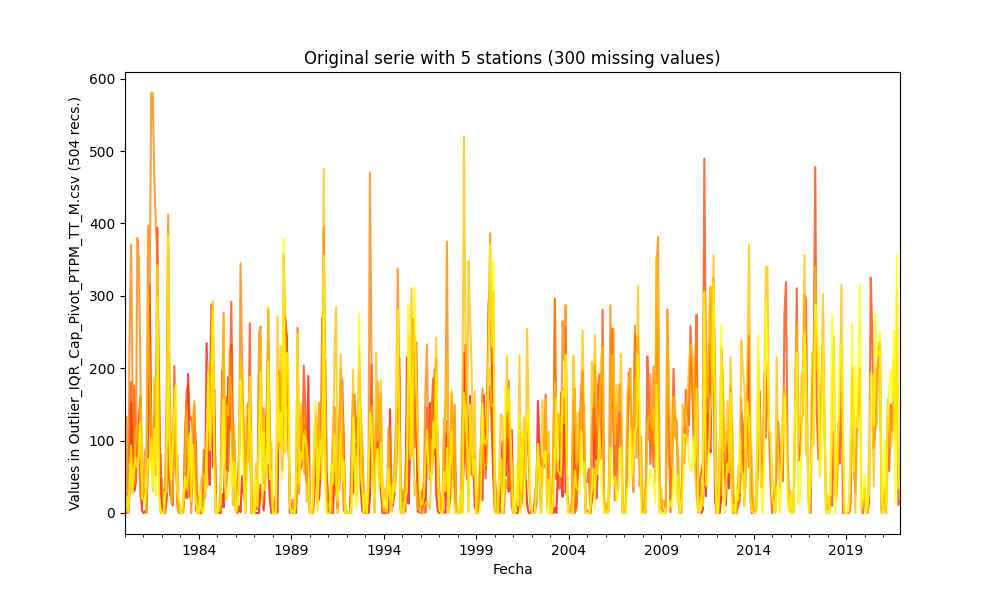
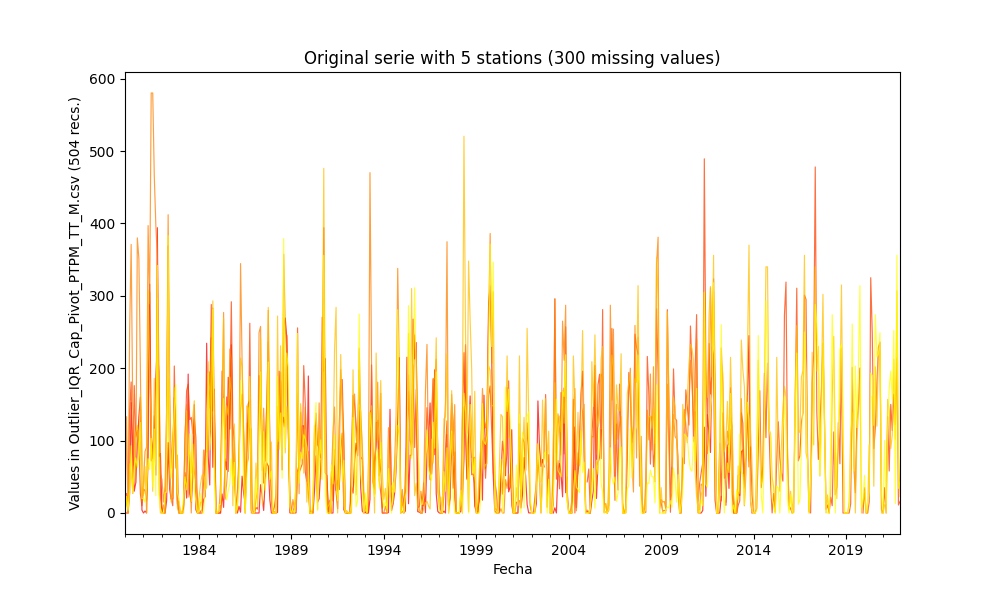
General update.

diff --git a/.src/Impute.py b/.src/Impute.py
@@ -126,7 +126,7 @@ total_nulls = df_concat.T['Nulls'].sum()
 #print_log('\nTotal nulls values founded in the dataset: %d\n' % total_nulls, center_div=False)
 #nul_data = pd.DataFrame(df.isnull())
 #print_log(nul_data.to_markdown())
-ax = df.plot(colormap=plot_colormap, legend=False, alpha=fig_alpha, figsize=(fig_size*2, fig_size+1))  # colormap can be replaced by color='lightblue'
+ax = df.plot(colormap=plot_colormap, legend=False, alpha=fig_alpha, figsize=(fig_size*2, fig_size+1), linewidth=0.85)  # colormap can be replaced by color='lightblue'
 plt.title('Original serie with %d stations (%d missing values)' % (df.shape[1], total_nulls))
 ax.set_ylabel('Values in %s (%d recs.)' % (pivot_table_name, ideam_regs))
 plt.savefig(path + pivot_table_name + '.png')

diff --git a/.datasets/IDEAM_Impute/Impute_Outlier_IQR_Cap_Pivot_PTPM_TT_M.csv.md b/.datasets/IDEAM_Impute/Impute_Outlier_IQR_Cap_Pivot_PTPM_TT_M.csv.md
@@ -1,7 +1,7 @@
 ## Impute missing values in time series through statistical methods
 
 * Processed file: [D:/R.LTWB/.datasets/IDEAM_Outlier/Outlier_IQR_Cap_Pivot_PTPM_TT_M.csv](../IDEAM_EDA/Outlier_IQR_Cap_Pivot_PTPM_TT_M.csv)
-* Execution date: 2022-11-12 08:44:51.524570
+* Execution date: 2022-11-12 08:48:47.904532
 * Python version: 3.10.5 (tags/v3.10.5:f377153, Jun  6 2022, 16:14:13) [MSC v.1929 64 bit (AMD64)]
 * Python path: ['D:\\R.LTWB\\.src', 'D:\\R.LTWB', 'D:\\R.HydroTools.wiki', 'D:\\R.HydroTools', 'D:\\R.GISPython']
 * matplotlib version: 3.6.0
